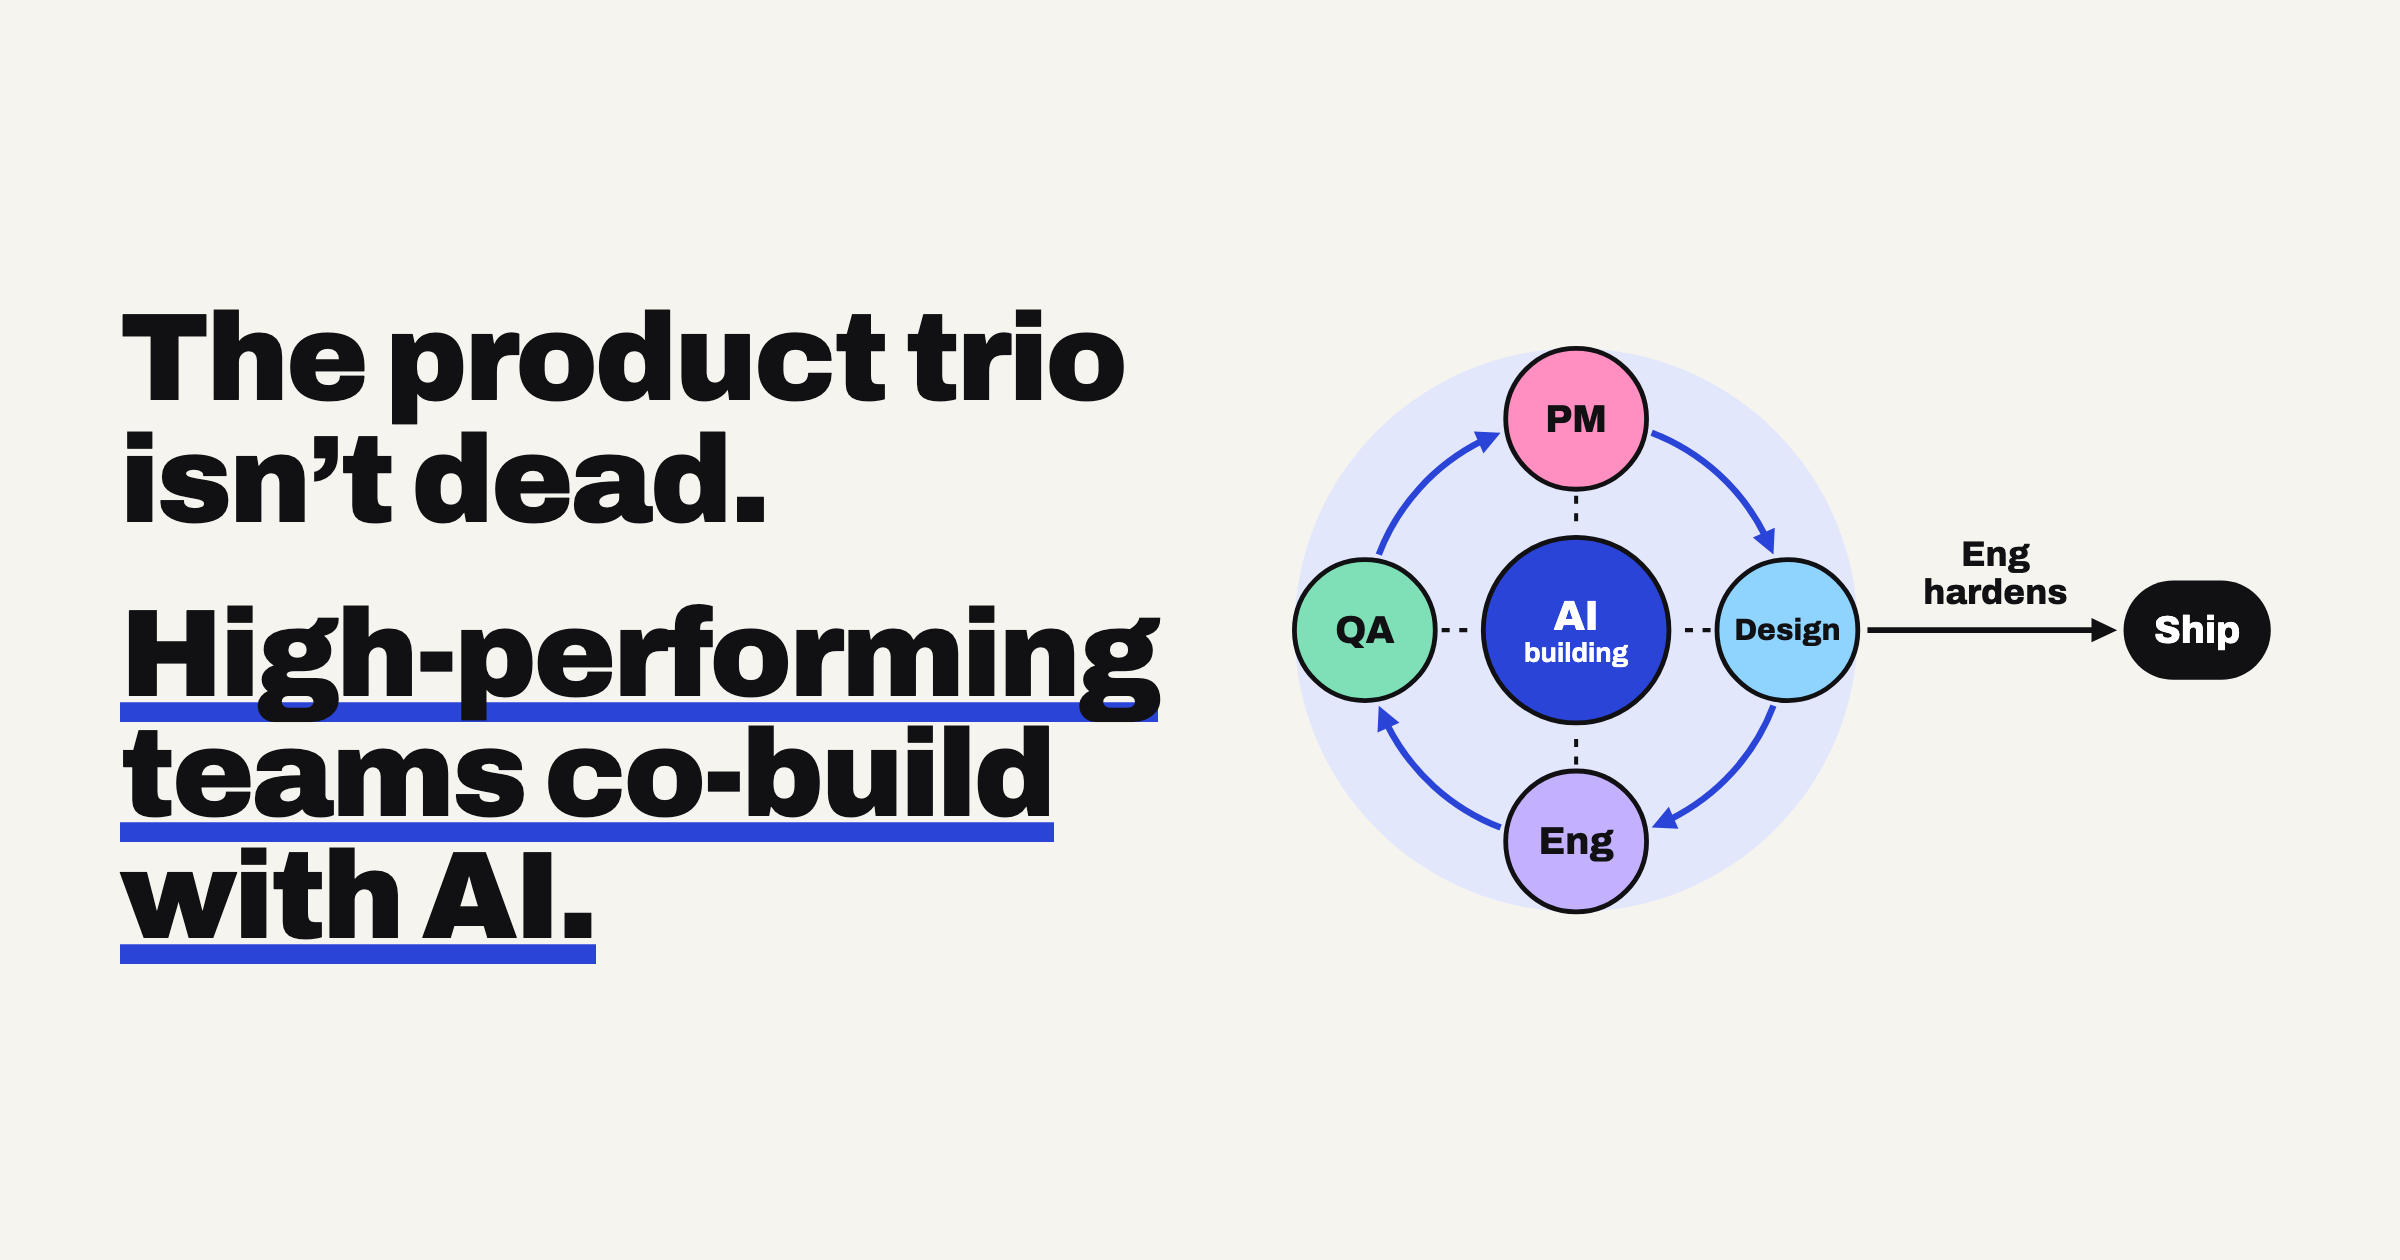
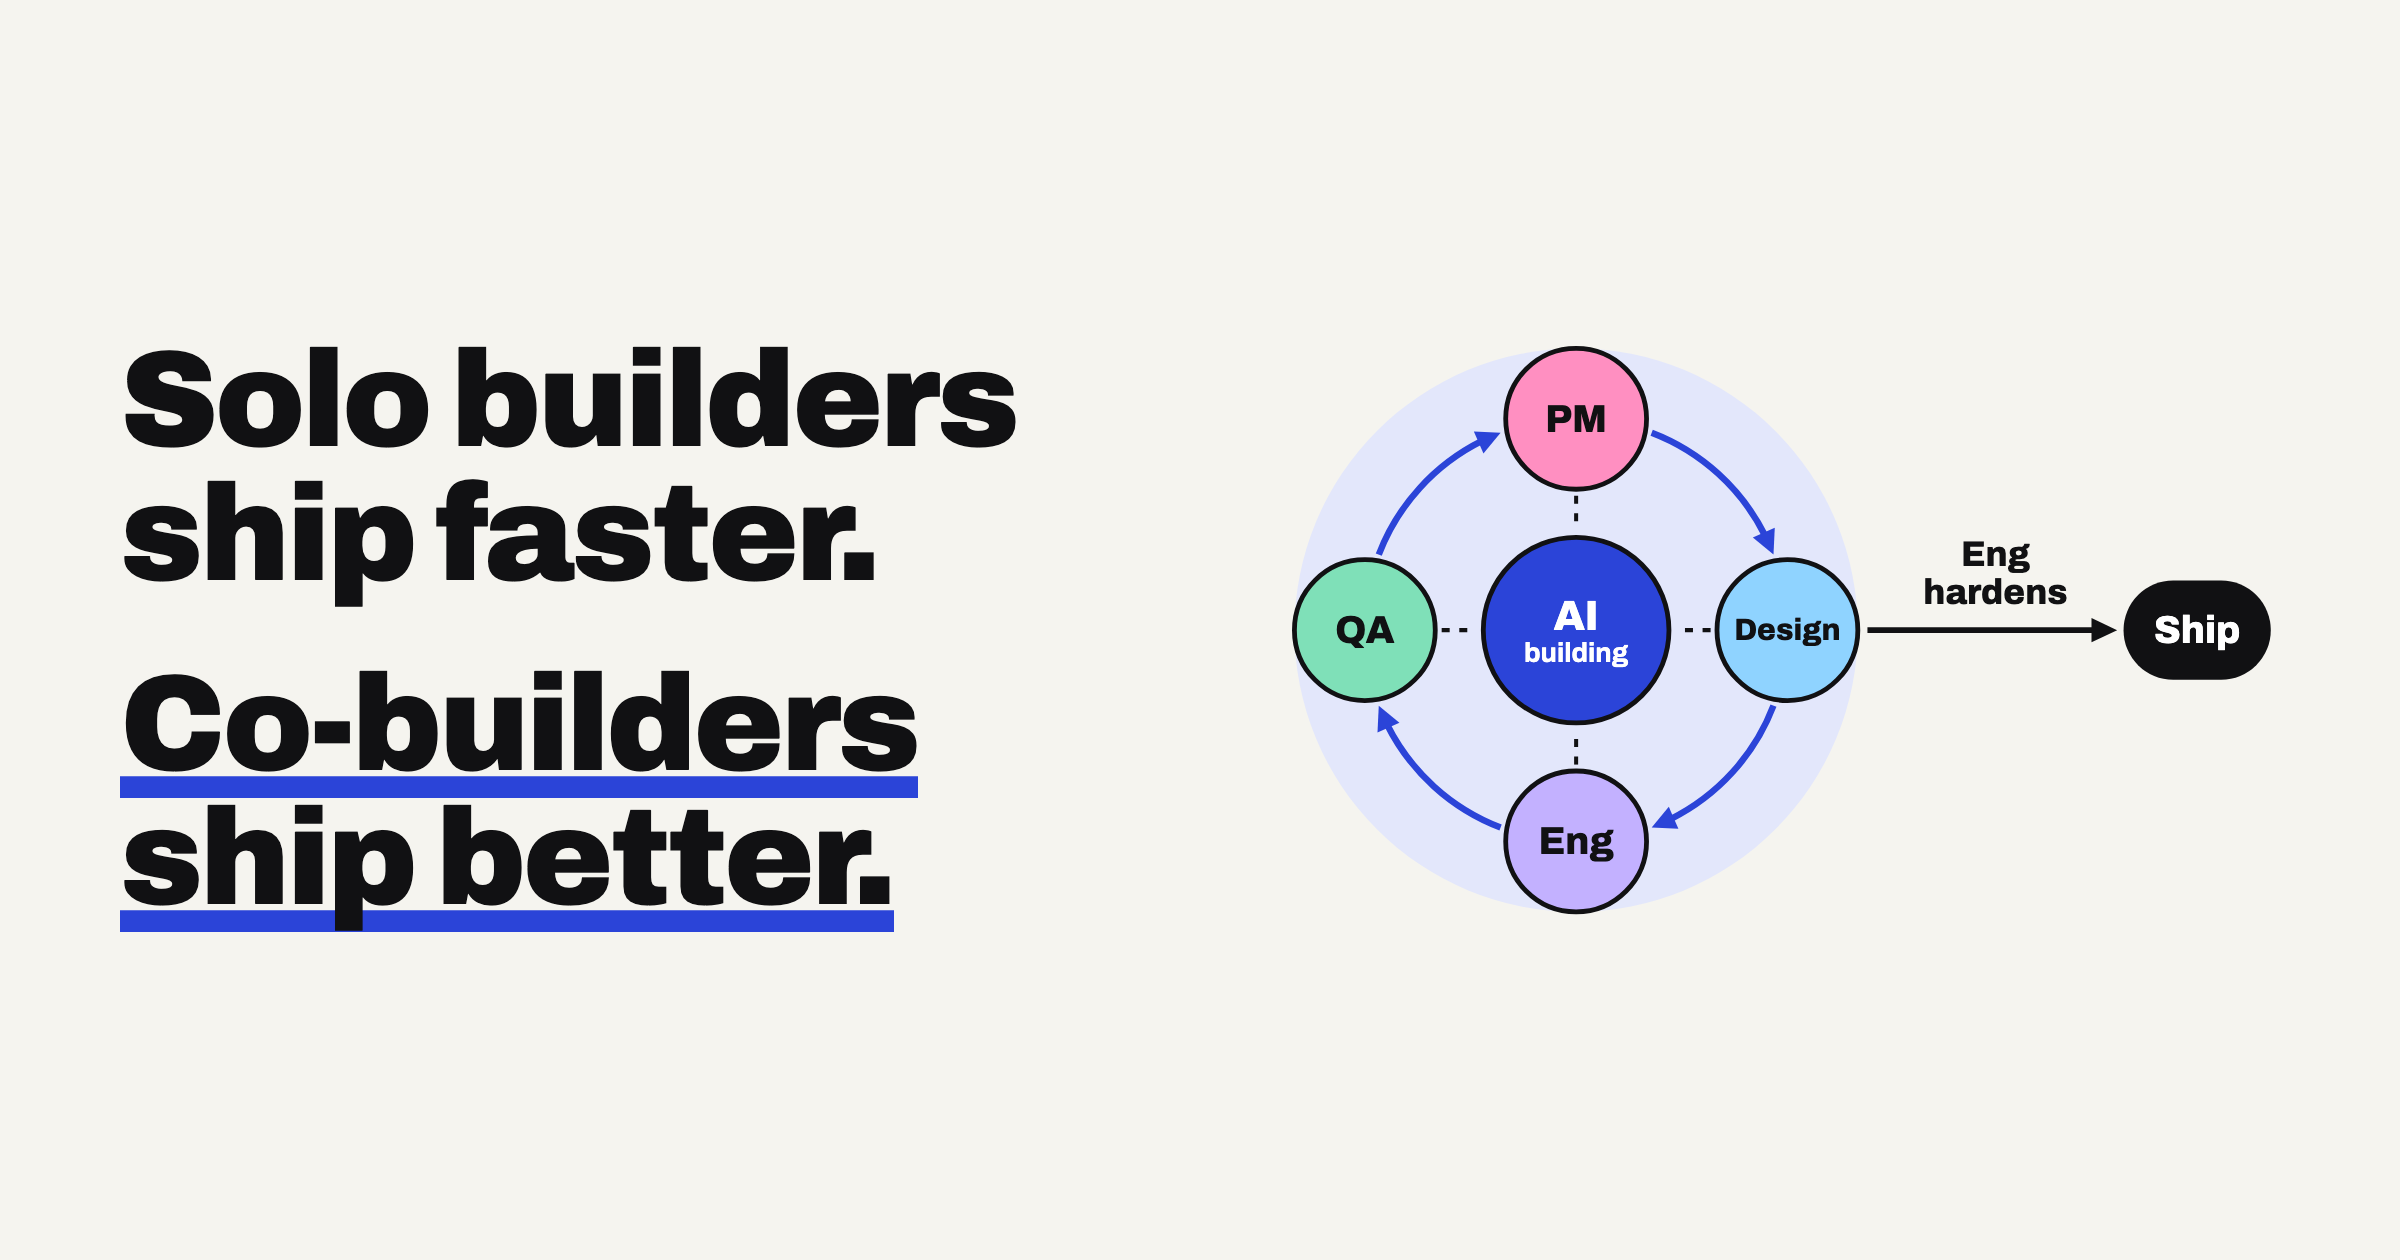
blog: hero says 'Solo builders ship faster. Co-builders ship better.'

Changed region(s): [[0.0312, 0.2476, 0.5, 0.7738]]

diff --git a/blog/_posts/co-builders-ship-better.md b/blog/_posts/co-builders-ship-better.md
@@ -17,7 +17,7 @@ featured: false
 sort_order: null
 excerpt: AI lets everyone build now. The best work comes from building with AI as a team. I call it co-building.
 cover_image: /blog/images/co-builders-ship-better-cover.png
-cover_alt: The product trio isn't dead. High-performing teams co-build with AI. PM, design, eng and QA work around AI building, then engineering hardens it and it ships.
+cover_alt: Solo builders ship faster. Co-builders ship better. PM, design, eng and QA work around AI building, then engineering hardens it and it ships.
 og_image: ''
 cover_full: false
 lede_align: left
